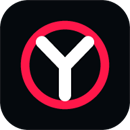
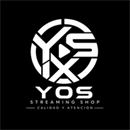
Brand YOS Xtream LG 3.12 launcher

diff --git a/webos-xtream/LEEME-INSTALACION.md b/webos-xtream/LEEME-INSTALACION.md
@@ -1,13 +1,13 @@
 # YOS Xtream para LG webOS
 
-Aplicación **YOS Xtream LG 3.11.0 para LG webOS**, independiente de las apps Android YOS Streaming y YOS Xtream. El televisor LG usa el paquete `.ipk`; no se le instala el APK Android. Esta versión mejora la inicialización de los perfiles de cuenta preconfigurados.
+Aplicación **YOS Xtream 3.12.0 para LG webOS**, independiente de las apps Android YOS Streaming y YOS Xtream. El televisor LG usa el paquete `.ipk`; no se le instala el APK Android. Esta versión actualiza el nombre y el ícono que aparecen en el menú de aplicaciones del TV.
 
 ## Descargar el instalador
 
 1. En GitHub, abre **Actions** y entra en **Crear app YOS para LG webOS**.
 2. Abre la ejecución más reciente que terminó correctamente.
-3. En **Artifacts**, descarga **YOS-3.11-LG-Instalador-Windows** si quieres el instalador guiado. Extrae el ZIP completo y ejecuta `INSTALAR-YOS-XTREAM-LG.bat`.
-4. También puedes descargar **YOS-3.11-LG-webOS-IPK** si solo necesitas el paquete `.ipk` para instalarlo manualmente.
+3. En **Artifacts**, descarga **YOS-3.12-LG-Instalador-Windows** si quieres el instalador guiado. Extrae el ZIP completo y ejecuta `INSTALAR-YOS-XTREAM-LG.bat`.
+4. También puedes descargar **YOS-3.12-LG-webOS-IPK** si solo necesitas el paquete `.ipk` para instalarlo manualmente.
 
 ## Instalar para pruebas personales
 
